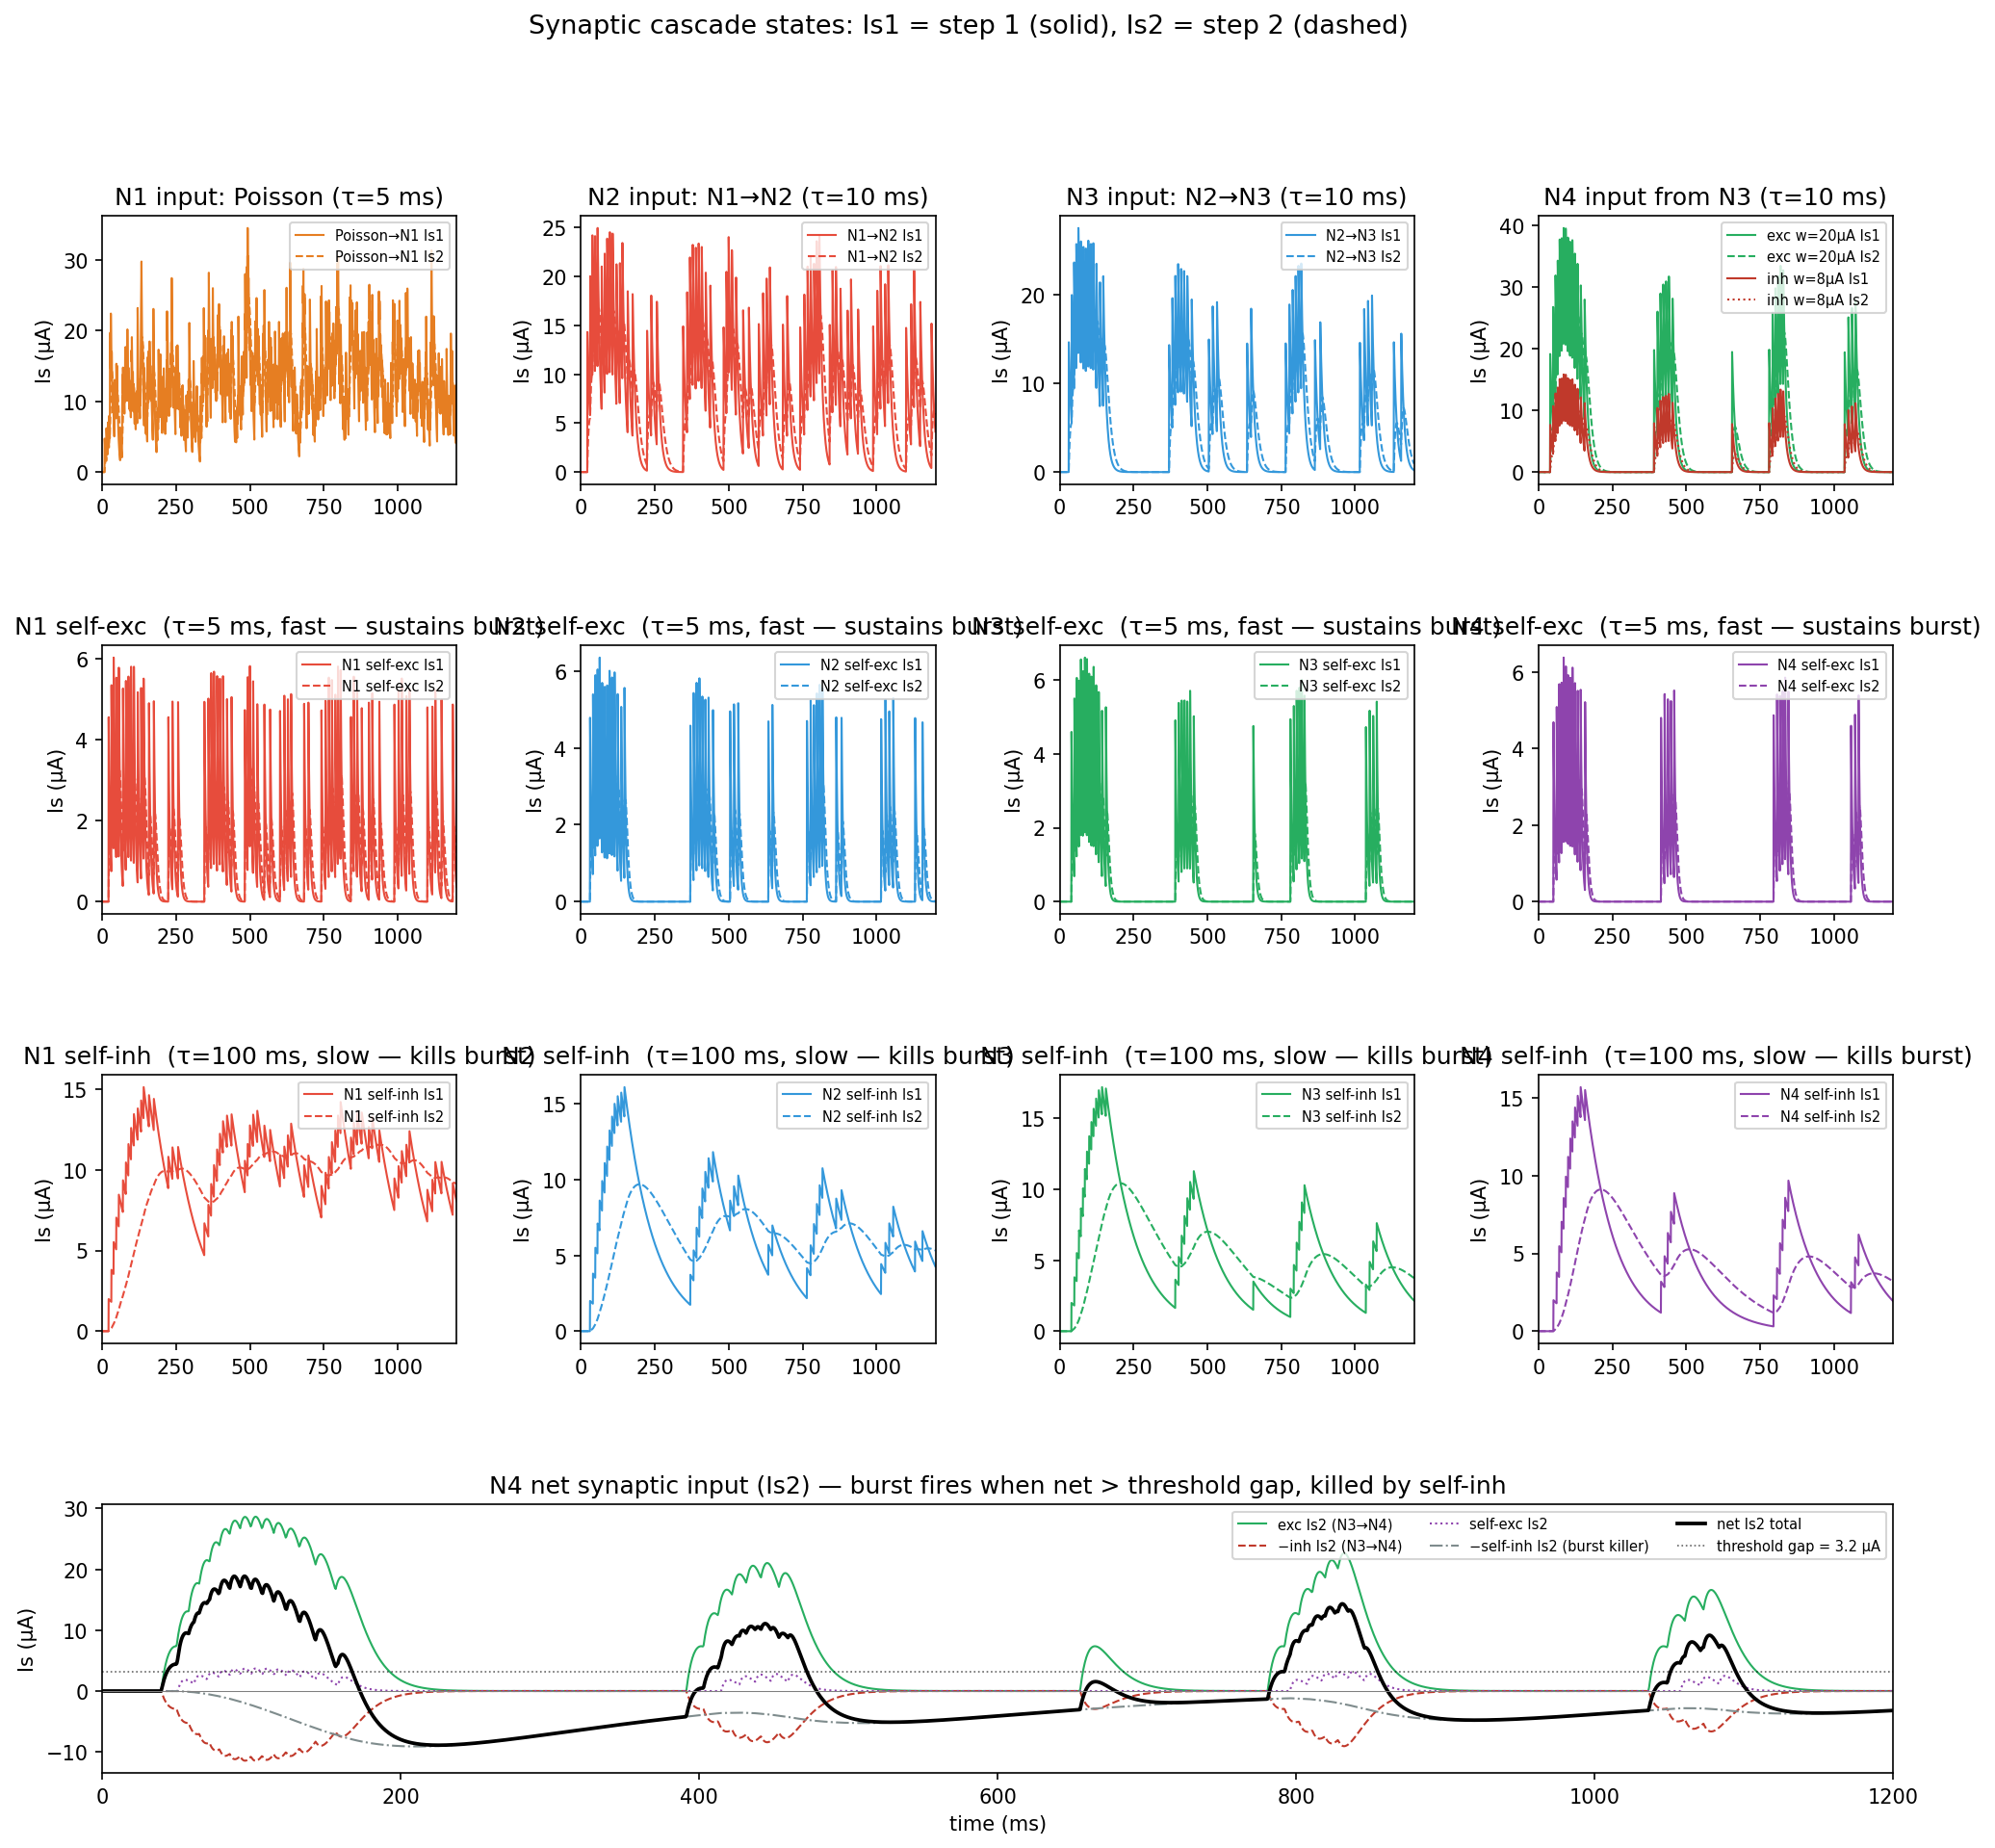
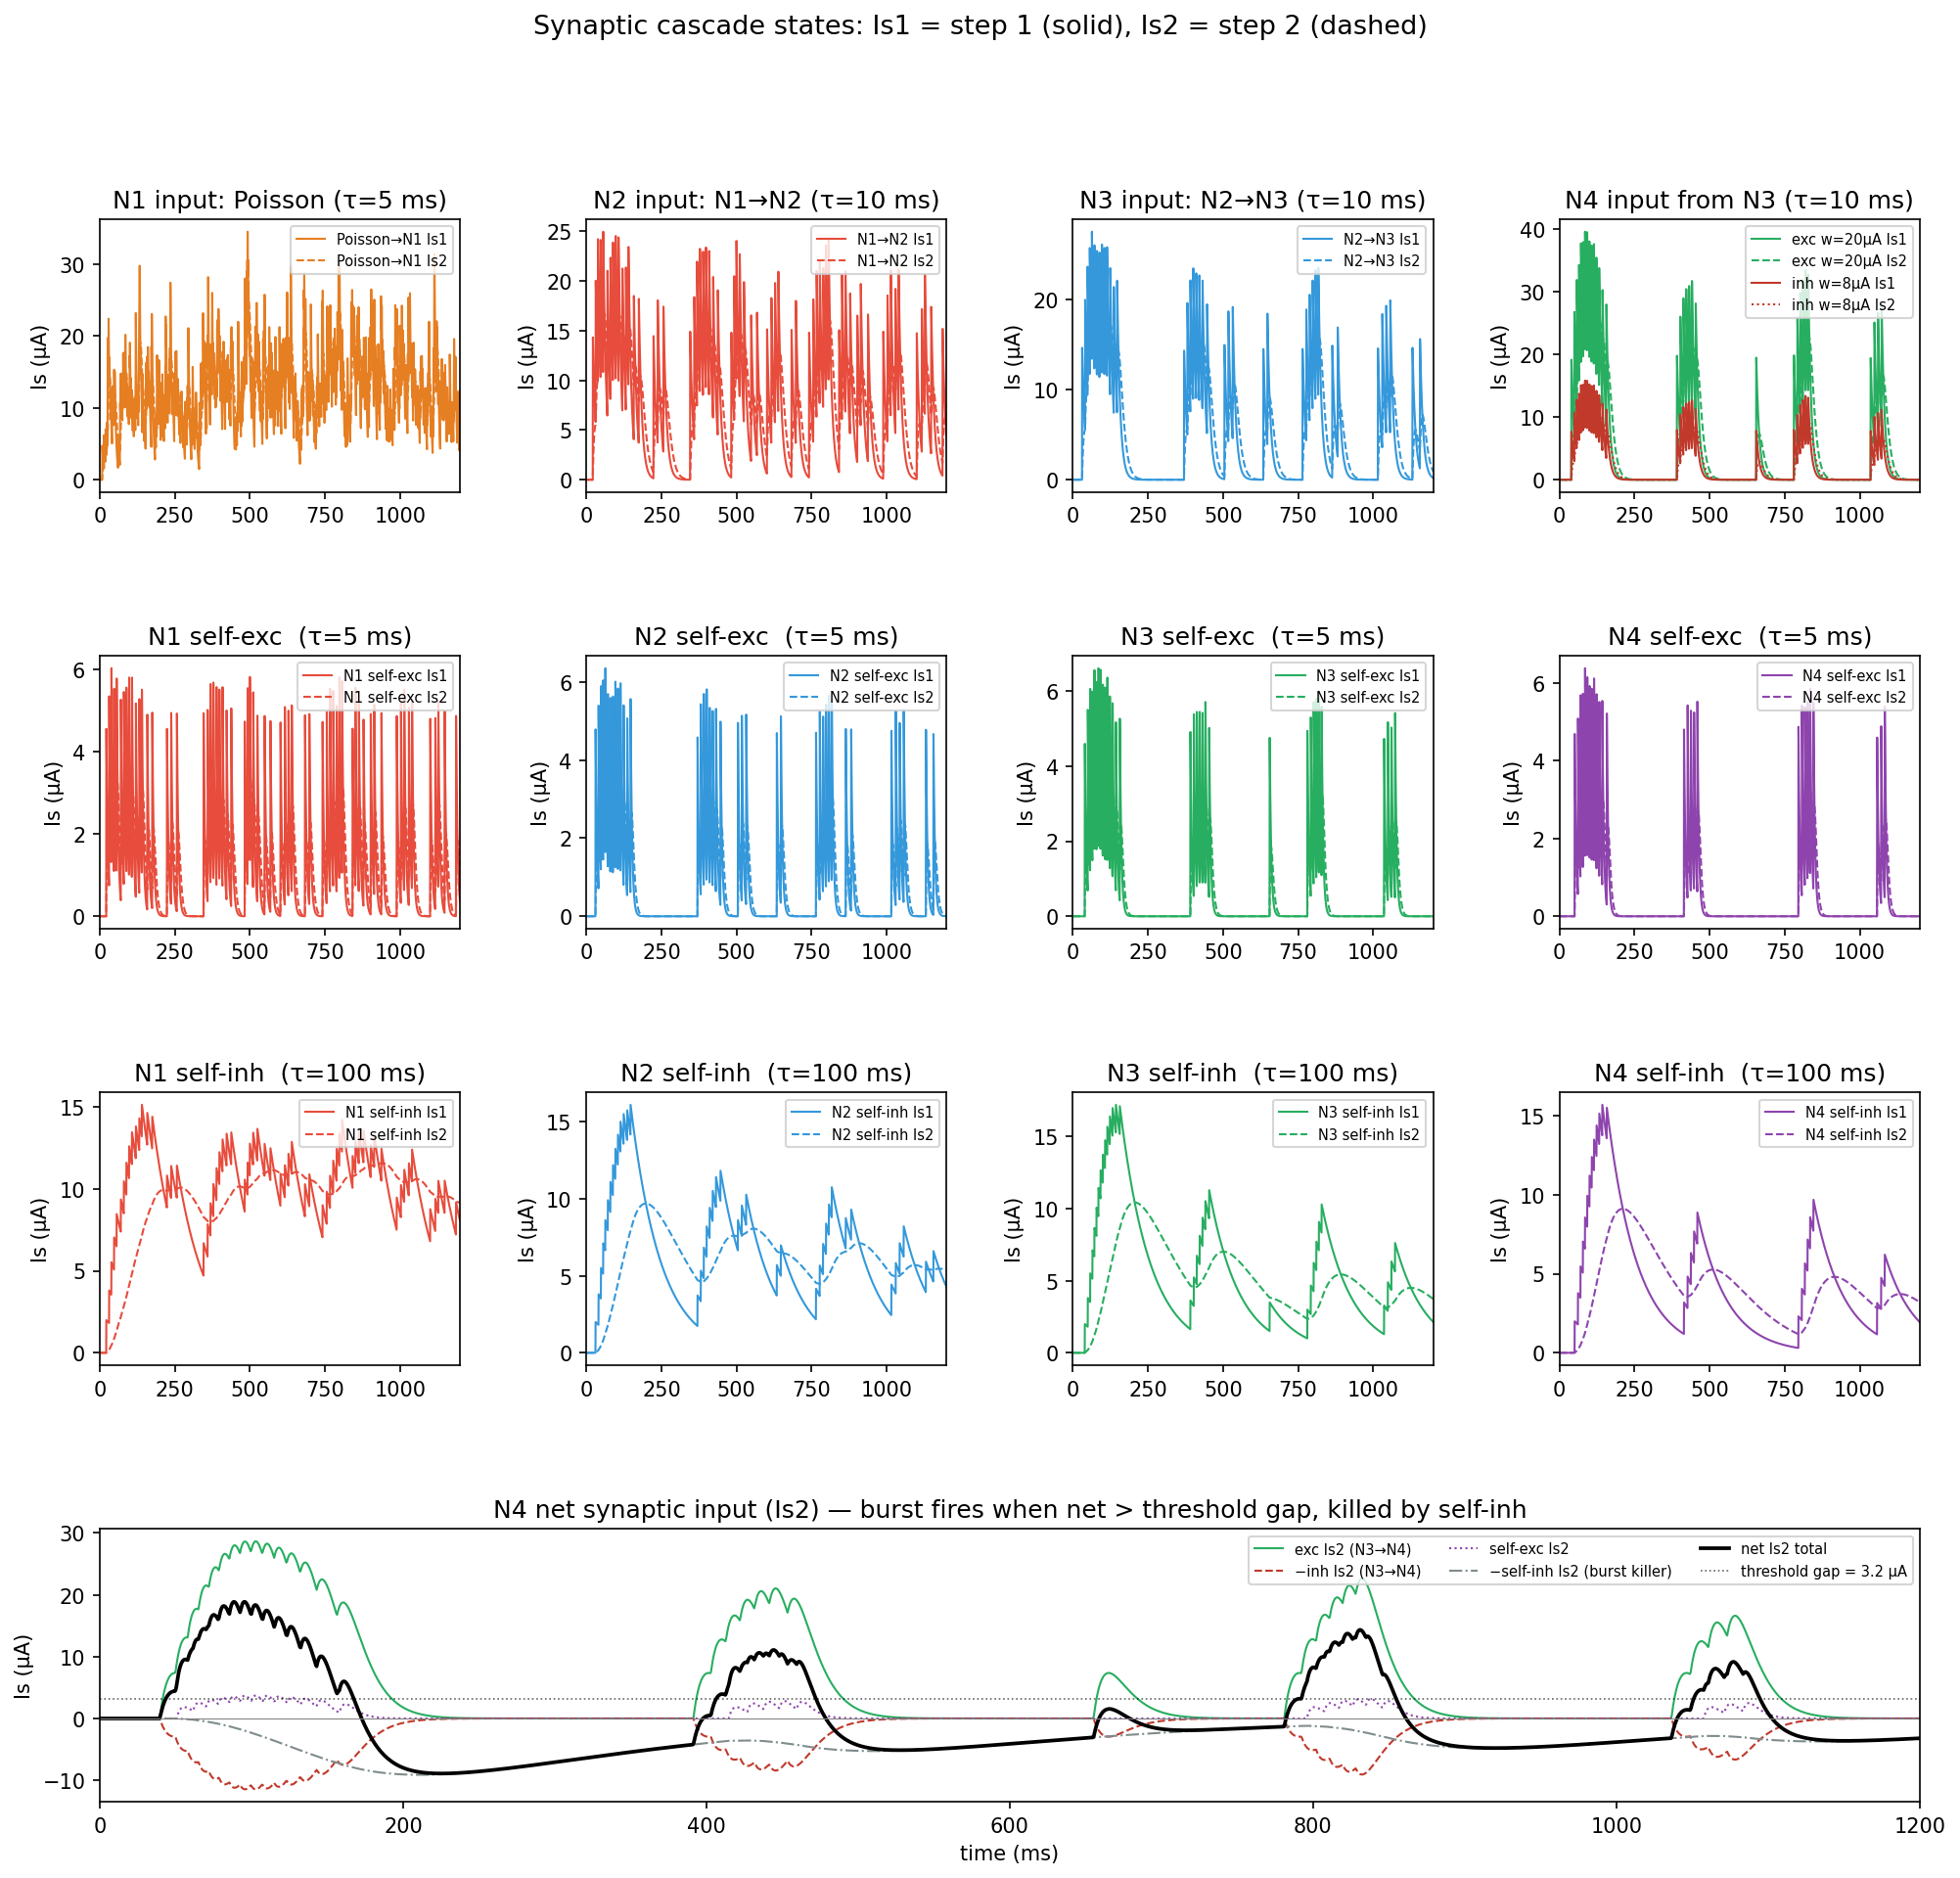
add the simulation paper for reference

diff --git a/demo/ns_msn_v5_delay_chain.py b/demo/ns_msn_v5_delay_chain.py
@@ -284,14 +284,14 @@ for col, (name, sm) in enumerate([('N1', sm_n1_self_exc), ('N2', sm_n2_self_exc)
                                    ('N3', sm_n3_self_exc), ('N4', sm_n4_self_exc)]):
     ax = fig2.add_subplot(gs[1, col])
     is12(ax, sm, f'{name} self-exc', COLORS[name])
-    ax.set_title(f'{name} self-exc  (τ={TAU_SELF_EXC*1e3:.0f} ms, fast — sustains burst)')
+    ax.set_title(f'{name} self-exc  (τ={TAU_SELF_EXC*1e3:.0f} ms)')
 
 # ── Row 2: slow self-inhibition per neuron ────────────────────────────────────
 for col, (name, sm) in enumerate([('N1', sm_n1_self_inh), ('N2', sm_n2_self_inh),
                                    ('N3', sm_n3_self_inh), ('N4', sm_n4_self_inh)]):
     ax = fig2.add_subplot(gs[2, col])
     is12(ax, sm, f'{name} self-inh', COLORS[name])
-    ax.set_title(f'{name} self-inh  (τ={TAU_SELF_INH*1e3:.0f} ms, slow — kills burst)')
+    ax.set_title(f'{name} self-inh  (τ={TAU_SELF_INH*1e3:.0f} ms)')
 
 # ── Row 3: N4 net current ─────────────────────────────────────────────────────
 ax_net = fig2.add_subplot(gs[3, :])

diff --git a/drosophila_compass_network_summary.md b/drosophila_compass_network_summary.md
@@ -78,3 +78,79 @@ To translate this biological topology into a neuromorphic or computational netwo
    * $W_{\text{EPG}\to\text{P}}$: Purely topographic, mapping coordinate $x$ in E to coordinate $x$ in P.
    * $W_{\text{PEG}\to\text{E}}$: Purely topographic, returning localized reinforcement from $x$ in P back to $x$ in E.
    * $W_{\text{P-EN}\to\text{E}}$: Asymmetric shift matrix. Maps coordinate $x$ in P to coordinate $x \pm \Delta \theta$ in E, gated by the directional turning input vector.
+
+---
+
+## 5. Current & Timing Inventory of the 2-Neuron MSN Demo
+
+This section documents the actual currents and synaptic time constants used in the
+current 2-EB / 2-PB winner-take-all (WTA) flip-flop implementation
+(`demo/ns_msn_compass_demo.py`), built on the MSN hardware neuron
+(`msn_neuron.py`) and split-synapse library (`msn_synapse.py`).
+
+### 5.1 Neuron operating window (sets the scale for every current)
+From `msn_neuron.py`: $I_{gt} = V_{th}/(R_{m,hi}+R_a) = 2.0 / (60\,000 + 2\,200)$.
+
+* **Rheobase** $I_{GT} \approx 32.2\ \mu\text{A}$ — below this a neuron is silent.
+* **Depol-block ceiling** $I_{hold} = 100\ \mu\text{A}$ — total current above this latches
+  the neuron permanently closed (silent).
+* Every current below must keep a neuron's **total** input inside the ~32–100 µA window to spike.
+
+### 5.2 Bias & external input currents (the "DC" drives)
+
+| Current | Value | = µA | Target | Notes |
+|---|---|---|---|---|
+| `I0_EB`  | 0.90·I_GT | **28.9 µA** | EB_L, EB_R | subthreshold rest bias |
+| `I0_GI`  | 0.80·I_GT | **25.7 µA** | EB_GI | lower — needs EB drive to fire |
+| `I0_PB`  | 0.90·I_GT | **28.9 µA** | PB_l, PB_r | subthreshold rest bias |
+| `SEED_I` | 1.8·I_GT  | **57.9 µA** | EB_R, first 80 ms | picks starting winner |
+| `PULSE_I`| 0.16·I_GT | **+5.1 µA** | both PBs | sensory pulse, 60 ms, at t = 0.7 / 1.3 / 1.9 s |
+
+### 5.3 Synaptic currents and time constants
+
+Each synapse is an **alpha cascade** (`cascade='alpha'`, with `tau_s1 = tau_s2 = τ`).
+For a single presynaptic spike the postsynaptic current is
+$I_{s2}(t) = w\,(t/\tau)\,e^{-t/\tau}$, which **peaks at $t = \tau$** with peak value
+$w/e = 0.368\,w$. So the weight `w` is the `Is1` injection, but the neuron actually
+sees a peak of only ~37% of `w` per spike (sustained firing summates higher).
+
+| Pathway | code var | `w` (peak inject) | peak `Is2` = w/e | `τ = τ_s1 = τ_s2` | time-to-peak |
+|---|---|---|---|---|---|
+| EB self-excitation (latch)         | `W_SELF`  | **11 µA** | 4.0 µA | **12 ms** | 12 ms |
+| EB → EB_GI (drive inhibitor)       | `W_EBGI`  | **14 µA** | 5.2 µA | **8 ms**  | 8 ms  |
+| EB_GI → EB (WTA inhibition)        | `W_GIEB`  | **9 µA**  | 3.3 µA | **8 ms**  | 8 ms  |
+| EB → PB (position copy, same side) | `W_COPY`  | **9 µA**  | 3.3 µA | **12 ms** | 12 ms |
+| PB → EB (cross-activation, opp.)   | `W_CROSS` | **10 µA** | 3.7 µA | **12 ms** | 12 ms |
+
+**WTA-gain margin:** GI loop $W_{EBGI}\cdot W_{GIEB} = 14\cdot9 = 126$ vs cross loop
+$W_{COPY}\cdot W_{CROSS} = 9\cdot10 = 90$. So 126 > 90 — the margin is *nominally*
+satisfied, yet the pair still co-fires. The product rule is therefore
+necessary-but-not-sufficient: the 0.90·I_GT bias sits so close to rheobase that even
+the small loser-side leakage current crosses threshold. This is the key Stage-0 lever.
+
+### 5.4 The time delay (the critical timing property)
+
+**There is no explicit synaptic transmission delay anywhere in this network.**
+`SynapseParams.delay` defaults to `0.0` and the demo never sets it, so `delay = 0 ms`
+on all 10 synapses. The *only* timing in the loops is the **alpha-function
+time-to-peak, which equals τ**. That gives these effective **loop latencies**
+(spike → effect fully developed around the loop):
+
+* **Self-latch:** ~**12 ms** (one synapse)
+* **WTA inhibition loop** EB→GI→EB: 8 + 8 = ~**16 ms**
+* **Flip / cross loop** EB→PB(copy) → PB→EB(cross): 12 + 12 = ~**24 ms**
+
+So the flip path (~24 ms) is *slower* than the inhibition path (~16 ms). For a clean
+flip the primed PB must cross-activate the opposite EB and let it win the WTA
+**before** global inhibition collapses the whole pair — and currently the cross loop
+is the slowest of the three, which is part of why the flips are mushy rather than crisp.
+
+Two consequences for tuning:
+1. The membrane's own $\tau_{open} \approx 6.2\ \text{ms}$ adds on top of each synaptic
+   time-to-peak — the real per-stage latency is roughly $\tau_{syn} + \tau_{open}$.
+2. To control flip timing (and later, turn speed when scaling up), the clean lever is
+   to set `tau_s1 ≠ tau_s2` and/or add an explicit `delay` per pathway, rather than
+   relying only on the equal-τ alpha peak. The model already supports both; they are
+   just unused in the current demo.
+
+